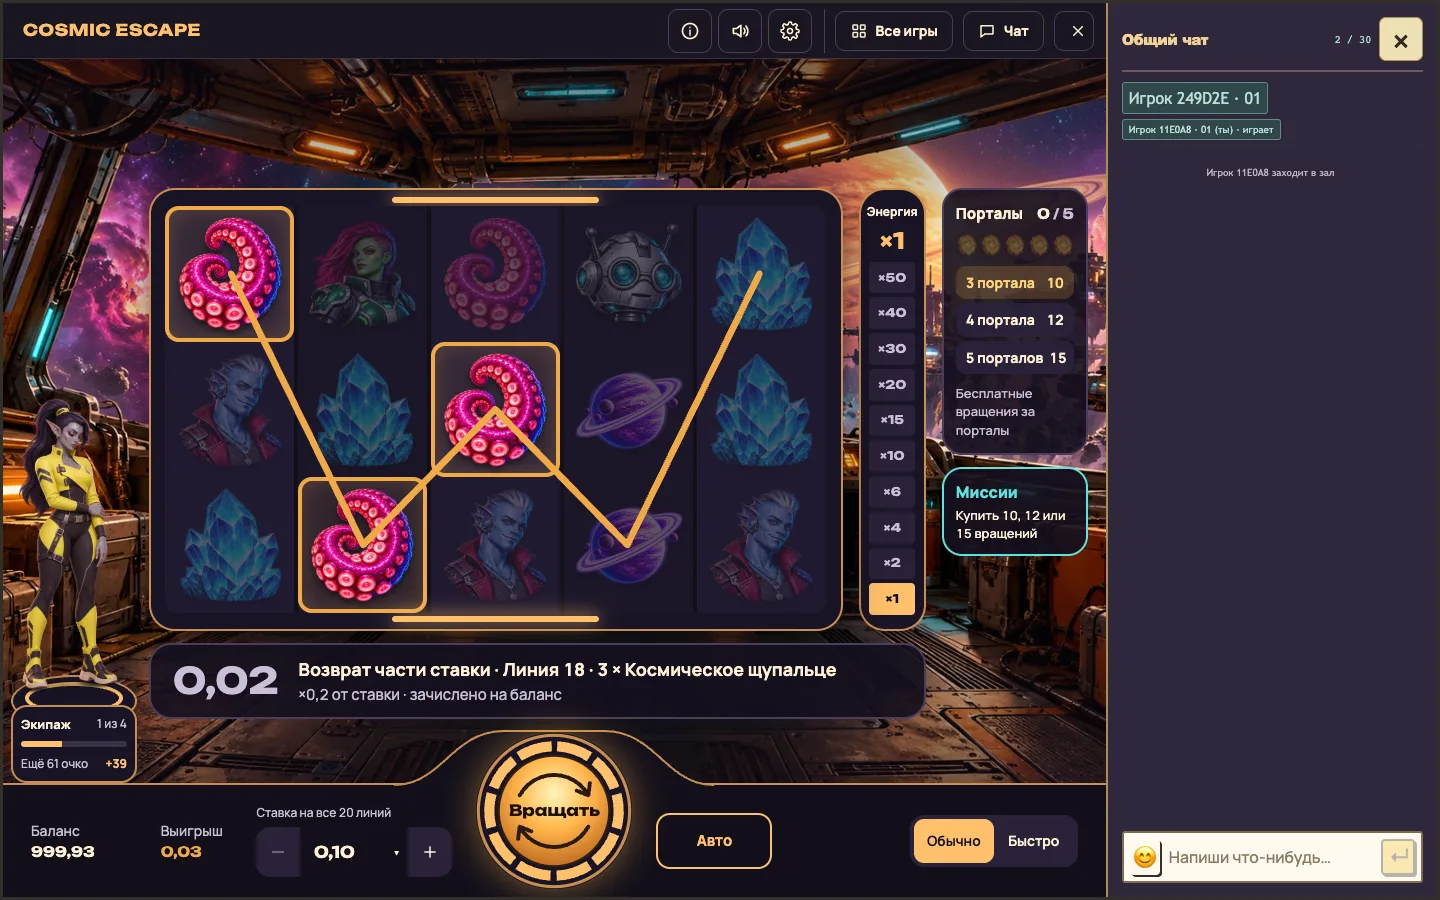
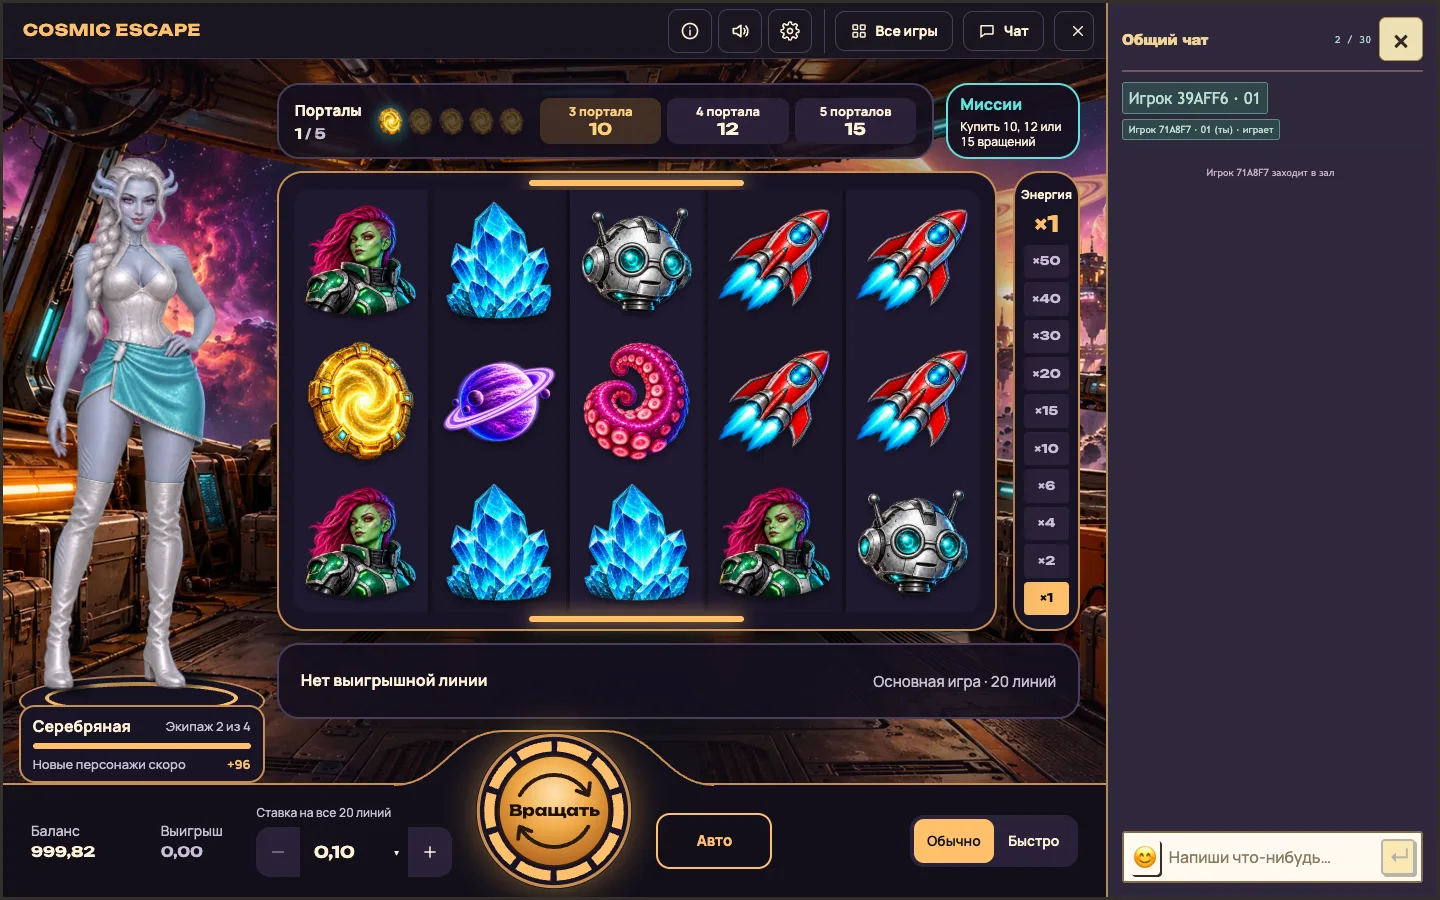
Center the mission text, document the chat layout and steady its tests

diff --git a/tests/game-layout-slots.spec.ts b/tests/game-layout-slots.spec.ts
@@ -530,7 +530,7 @@ test('Cosmic Escape labels stay whole beside the open chat',async({page,roomPath
    return problems;
   }),state+' '+width+'x'+height).toEqual([]);
  }await page.setViewportSize({width:1440,height:900});};
- const round=async()=>{await page.locator('[data-lg-spin]').click();await expect(game).not.toHaveAttribute('data-phase','idle');await expect.poll(()=>game.evaluate(e=>e.dataset.phase==='idle'&&!e.dataset.animationToken),{timeout:60000}).toBe(true);};
+ const round=async()=>{await page.locator('[data-lg-spin]').click();await expect(game).not.toHaveAttribute('data-phase','idle');await expect.poll(()=>game.evaluate(e=>e.dataset.phase==='idle'&&!e.dataset.animationToken),{timeout:60000}).toBe(true);await finish(page,id);};
  const points=async(...cents:number[])=>expect((await page.request.post('/__test/layout/crew',{data:{cents}})).ok()).toBe(true);
  await points(...Array(4).fill(1000));await round();await expect(game.locator('[data-cx-crew-gain]')).toHaveText('+33');await whole('progress');
  expect((await page.request.post('/__test/layout/bonus',{data:{gameId:id,scenario:'win'}})).ok()).toBe(true);await round();await whole('win');
@@ -569,7 +569,7 @@ test('Cosmic Escape opens, keeps and changes a character without touching the wa
  const id='studio-cosmic-escape';await open(page,id);
  const game=page.locator('#mini-game > .cx-game'),plate=game.locator('[data-cx-crew]'),dialog=game.locator('[data-lg-dialog]'),figure=game.locator('[data-cosmic-alien]'),spin=page.locator('[data-lg-spin]');
  const points=async(...cents:number[])=>expect((await page.request.post('/__test/layout/crew',{data:{cents}})).ok()).toBe(true);
- const round=async()=>{await spin.click();await expect(game).not.toHaveAttribute('data-phase','idle');await expect.poll(()=>game.evaluate(e=>e.dataset.phase==='idle'&&!e.dataset.animationToken),{timeout:60000}).toBe(true);};
+ const round=async()=>{await spin.click();await expect(game).not.toHaveAttribute('data-phase','idle');await expect.poll(()=>game.evaluate(e=>e.dataset.phase==='idle'&&!e.dataset.animationToken),{timeout:60000}).toBe(true);await finish(page,id);};
  await expect(game).toHaveAttribute('data-crew','ready');await expect(game.locator('[data-cx-crew-gain]')).toBeEmpty();
  // One paid ten cent round earns exactly one point.
  await round();await expect(game.locator('[data-cx-crew-gain]')).toHaveText('+1');await expect(game.locator('[data-cx-crew-note]')).toContainText('99');

diff --git a/games/cosmic-escape/cosmic-cockpit.css b/games/cosmic-escape/cosmic-cockpit.css
@@ -189,6 +189,7 @@
 .cx-game[data-slot-priority="landscape"] :is([data-dialog="bonus"], [data-dialog="complete"]) h2 { font-size: 18px; line-height: 24px; margin: 0; }
 .cx-game[data-slot-priority="landscape"] :is([data-dialog="bonus"], [data-dialog="complete"]) .lg-eyebrow { font-size: 12px; }
 .cx-game[data-slot-priority="landscape"] :is([data-dialog="bonus"], [data-dialog="complete"]) p { margin: 2px 0; font-size: 14px; line-height: 1.3; }
+.cx-game[data-slot-priority] .ce-dialog:is([data-dialog="bonus"], [data-dialog="complete"]) p { margin-inline: auto; }
 .cx-game[data-slot-priority="landscape"] [data-dialog="bonus"] .ce-bonus-orbit { width: 64px; height: 64px; margin: 4px auto 0; }
 .cx-game[data-slot-priority="landscape"] [data-dialog="bonus"] .ce-bonus-orbit strong { line-height: 64px; font-size: 28px; }
 .cx-game[data-slot-priority="landscape"] .ce-dialog .ce-primary { margin-top: 8px; padding: 10px 14px; font-size: 14px; }

diff --git a/docs/game-layout/cosmic-crew/README.md b/docs/game-layout/cosmic-crew/README.md
@@ -37,13 +37,28 @@
 | Место | Решение |
 | --- | --- |
 | ПК | Героиня стоит на подиуме. Табличка показывает имя, число открытых, полосу и остаток до следующей. После раунда на ней появляется прибавка. |
-| Узкая табличка | При открытом чате, в окне 1280 и на телефоне имя заменено словом «Экипаж», число записано как «1 из 4». |
+| Узкая табличка | На телефоне имя заменено словом «Экипаж», число записано как «1 из 4». |
 | Короткие и горизонтальные окна | Таблички нет, в шапке окна стоит кнопка с кольцом прогресса. |
 | Новый персонаж | Подиум, табличка и кольцо становятся бирюзовыми, на ПК в строке результата появляется подпись. |
 | Окно «Экипаж» | Четыре капсулы, крупная фигура, шкала очков и пояснение. |
 | Открытие капсулы | Створки расходятся, кнопки «Выбрать» и «В экипаж». При уменьшенном движении створки сразу открыты. |
 
 Табличка, подиум и героиня входят в общую проверку неподвижности. Её строки имеют постоянную высоту.
+
+## Окно с открытым чатом
+
+Пакет 1.3.1. В сцене шириной до 1250 px боковая колонка убрана, её ширина отдана героине, подписи на табличке помещаются целиком.
+
+| Место | Решение |
+| --- | --- |
+| Сцена с отношением сторон до 1,53 и высотой от 640 px (1440×900 с чатом) | Порталы, лестница бесплатных вращений и «Миссии» стоят строкой над полем. Героиня выросла с 318 до 586 px, поле с 694 до 720 px. |
+| Остальные сцены до 1250 px (1280×720, 1366×768, 1280×800 и 1600×900 с чатом) | Порталы и «Миссии» стоят в строке результата. Лестница, подпись режима, пояснение под «Миссиями» и плашка «Новый персонаж» скрыты, правила остаются в окне правил. На 1280×720 героиня выросла с 274 до 418 px, поле с 596 до 620 px. |
+| Ошибка и восстановление | Занимают всю строку вместе с местом порталов и миссий. |
+| Панель уже 1000 px | Поле ставки сужено, «+» не касается реактора. |
+
+Компоновка зависит от размера сцены, поэтому так же выглядят и узкие окна без чата. Сцены шире 1250 px и телефоны не менялись. Тест «labels stay whole beside the open chat» проверяет восемь размеров и пять состояний: подписи не обрезаны, блоки не соприкасаются, героиня занимает не меньше половины высоты сцены.
+
+Снимки: [1440×900](chat-1440.webp), [новый персонаж](chat-new.webp), [миссия](chat-mission.webp), [1280×720](chat-1280.webp), [ошибка](chat-error.webp).
 
 ## Графика
 
